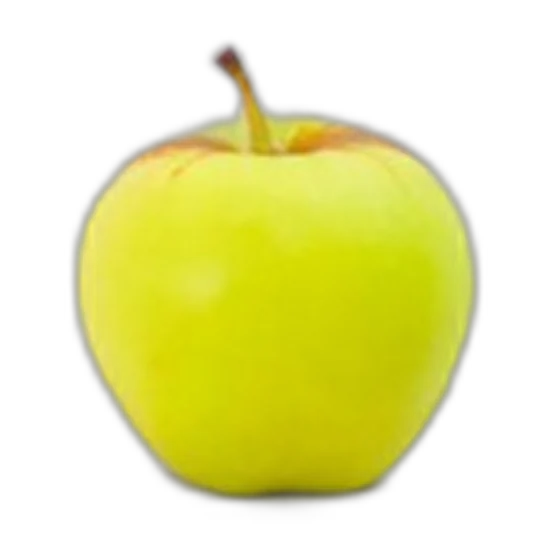
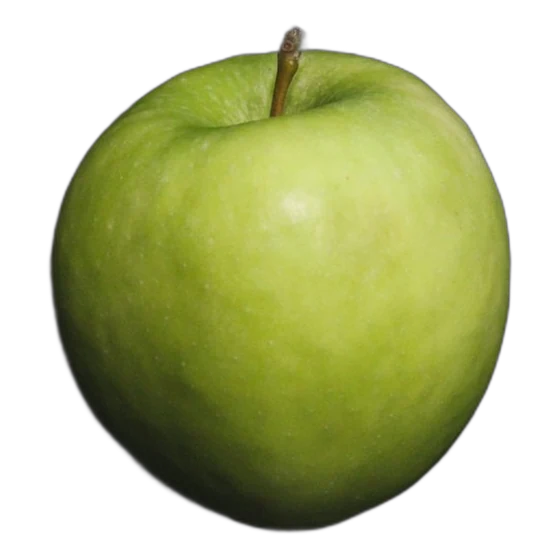
Všech 17 příchutí do výběru a lepší fotka zeleného jablka
Bubliny se rozsadí po celém kruhu podle toho, kolik jich je, a samy
si spočítají velikost, aby se nedotýkaly (17 příchutí = 59 px na
desktopu, 42 px na mobilu). Příchutě, co zatím nemají fotku, mají
kreslený kopeček ve své barvě — v bublině i ve velkém náhledu.

Zelené jablko má novou studiovou fotku místo té na talíři.

diff --git a/assets/anim.js b/assets/anim.js
@@ -212,10 +212,15 @@
     const fotka = document.getElementById("flavorImg");
     const kruh = sekce.querySelector(".bubliny");
 
+    // bubliny rozsadíme po celém kruhu — kolik jich je, tolik dílků
     const rozmisti = () => {
-      const R = kruh.clientWidth / 2 - 6;
+      const n = bubliny.length;
+      const R = kruh.clientWidth / 2 - 8;
+      // aby se nedotýkaly: průměr podle rozestupu na kružnici
+      const velikost = Math.max(34, Math.min(84, 2 * R * Math.sin(Math.PI / n) - 6));
+      kruh.style.setProperty("--bublina", velikost.toFixed(1) + "px");
       bubliny.forEach((li, i) => {
-        const uhel = (-108 + i * 43) * Math.PI / 180;
+        const uhel = (-90 + i * (360 / n)) * Math.PI / 180;
         li.style.transform = `translate(${(Math.cos(uhel) * R).toFixed(1)}px, ${(Math.sin(uhel) * R).toFixed(1)}px)`;
       });
     };
@@ -233,6 +238,29 @@
 
     const zaklad = sekce.querySelector(".blok__in");
     let aktivni = null, umysl, vrstvaZiva = null;
+
+    // velký obrázek vlevo: fotka, nebo kreslený kopeček v barvě příchuti
+    const velkyKopecek = barva =>
+      '<svg viewBox="0 0 120 120" aria-hidden="true">' +
+      `<path d="M22 74c0-23 17-42 38-42s38 19 38 42c0 5-3 8-8 8H30c-5 0-8-3-8-8z" fill="${barva}"/>` +
+      '<path d="M38 60c4-10 12-17 22-18" stroke="rgba(255,255,255,.55)" stroke-width="7" stroke-linecap="round" fill="none"/>' +
+      '<ellipse cx="60" cy="88" rx="40" ry="7" fill="rgba(0,0,0,.14)"/></svg>';
+
+    const nastavObrazek = (koren, b) => {
+      const img = koren.querySelector(".prichute__foto img");
+      const kopecek = koren.querySelector(".prichute__kopecek");
+      if (!img || !kopecek) return;
+      if (b.dataset.img) {
+        img.src = b.dataset.img;
+        img.alt = b.dataset.name;
+        img.hidden = false;
+        kopecek.hidden = true;
+      } else {
+        img.hidden = true;
+        kopecek.innerHTML = velkyKopecek(b.dataset.c);
+        kopecek.hidden = false;
+      }
+    };
     const vyber = (li, hned) => {
       if (li === aktivni) return;
       const b = li.querySelector("button");
@@ -247,7 +275,7 @@
         jmeno.textContent = b.dataset.name;
         druh.textContent = b.dataset.kind;
         popis.textContent = b.dataset.note;
-        if (fotka && b.dataset.img) { fotka.src = b.dataset.img; fotka.alt = b.dataset.name; }
+        nastavObrazek(sekce, b);
       };
 
       if (mene || hned) { nastavZaklad(); return; }
@@ -273,8 +301,7 @@
       klon.querySelector(".prichute__nazev").textContent = b.dataset.name;
       klon.querySelector(".prichute__druh").textContent = b.dataset.kind;
       klon.querySelector(".prichute__popis").textContent = b.dataset.note;
-      const klonFoto = klon.querySelector(".prichute__foto img");
-      if (klonFoto && b.dataset.img) { klonFoto.src = b.dataset.img; klonFoto.alt = b.dataset.name; }
+      nastavObrazek(klon, b);
       const poradi = bubliny.indexOf(li);
       [...klon.querySelectorAll(".bubliny li")].forEach((el, i) => el.classList.toggle("is-on", i === poradi));
       vrstva.appendChild(klon);

diff --git a/assets/style.css b/assets/style.css
@@ -182,16 +182,18 @@ section[id] { scroll-margin-top: 80px; }
 .prichute__popis { font-size: 1.04rem; opacity: .92; min-height: 3.2em; }
 .bubliny { list-style: none; margin: 0; padding: 0; position: relative; width: min(370px, 38vw); aspect-ratio: 1; }
 .bubliny::before { content: ""; position: absolute; inset: 6%; border-radius: 50%; border: 2px dashed rgba(255, 255, 255, .5); }
-.bubliny li { position: absolute; left: 50%; top: 50%; margin: -41px 0 0 -41px; }
+.bubliny li { position: absolute; left: 50%; top: 50%; width: var(--bublina, 82px); height: var(--bublina, 82px); margin: calc(var(--bublina, 82px) / -2) 0 0 calc(var(--bublina, 82px) / -2); }
 .bubliny button {
   --in: 1;
-  width: 82px; height: 82px; border-radius: 50%; border: 4px solid currentColor; cursor: pointer;
+  width: 100%; height: 100%; border-radius: 50%; border: 3px solid currentColor; cursor: pointer;
   background: var(--c); padding: 0; display: grid; place-items: center; overflow: hidden; color: inherit;
   box-shadow: 0 16px 24px -14px rgba(40, 20, 30, .6);
   transform: scale(var(--in));
   transition: transform .35s cubic-bezier(.34, 1.56, .64, 1), box-shadow .3s;
 }
-.bubliny button img { width: 72%; height: 72%; object-fit: contain; filter: drop-shadow(0 4px 6px rgba(0, 0, 0, .3)); pointer-events: none; }
+.bubliny button img, .bubliny button .kopecek { width: 76%; height: 76%; object-fit: contain; filter: drop-shadow(0 4px 6px rgba(0, 0, 0, .3)); pointer-events: none; }
+.prichute__kopecek { width: 100%; height: 100%; display: grid; place-items: center; }
+.prichute__kopecek svg { width: 86%; height: 86%; filter: drop-shadow(0 18px 20px rgba(40, 20, 30, .35)); }
 .bubliny button:hover, .bubliny button:focus-visible { transform: scale(calc(var(--in) * 1.14)); }
 .bubliny li.is-on button { transform: scale(calc(var(--in) * 1.22)); box-shadow: 0 0 0 7px rgba(255, 255, 255, .3), 0 20px 28px -14px rgba(40, 20, 30, .6); }
 
@@ -385,8 +387,6 @@ h2 .hand { font-size: 1.16em; }
   .zastavka__bod { position: absolute; left: -36px; top: 18px; margin: 0; }
   .zastavka__karta { text-align: left; }
   .bubliny { width: min(330px, 76vw); }
-  .bubliny li { margin: -33px 0 0 -33px; }
-  .bubliny button { width: 66px; height: 66px; border-width: 3px; }
   .prichute__foto { width: min(210px, 50vw); }
   .partner__cta { grid-auto-flow: column; justify-content: start; }
 }
@@ -406,8 +406,6 @@ h2 .hand { font-size: 1.16em; }
   .sticker--rating b { font-size: 1.55rem; }
   .tabule { padding: 22px 20px; border-width: 9px; }
   .bubliny { width: min(280px, 82vw); }
-  .bubliny li { margin: -28px 0 0 -28px; }
-  .bubliny button { width: 56px; height: 56px; }
   .partner__cta { grid-auto-flow: row; }
 }
 

diff --git a/assets/data.js b/assets/data.js
@@ -61,7 +61,16 @@ window.ZD = (function () {
   /* ---------- pomůcky ---------- */
   const jeTodo = v => typeof v === "string" && v.trim().toUpperCase() === "TODO";
   const prichut = id => data.prichute.prichute.find(p => p.id === id) || null;
-  const sFotkou = () => data.prichute.prichute.filter(p => p.foto);
+  const vNabidce = () => data.prichute.prichute.filter(p => p.dostupne !== false);
+
+  // kopeček pro příchutě, které zatím nemají fotku
+  const kopecekSvg = (barva, velky) => {
+    const r = velky ? 'viewBox="0 0 120 120" class="kopecek kopecek--velky"' : 'viewBox="0 0 120 120" class="kopecek"';
+    return `<svg ${r} aria-hidden="true">` +
+      `<path d="M22 74c0-23 17-42 38-42s38 19 38 42c0 5-3 8-8 8H30c-5 0-8-3-8-8z" fill="${barva}"/>` +
+      `<path d="M38 60c4-10 12-17 22-18" stroke="rgba(255,255,255,.55)" stroke-width="7" stroke-linecap="round" fill="none"/>` +
+      `<ellipse cx="60" cy="86" rx="40" ry="7" fill="rgba(0,0,0,.12)"/></svg>`;
+  };
 
   /* ---------- hero: co se právě točí ---------- */
   function vykresliDnes() {
@@ -104,10 +113,11 @@ window.ZD = (function () {
   function vykresliBubliny() {
     const ul = document.getElementById("bubbles");
     if (!ul) return;
-    const vyber = sFotkou();
+    const vyber = vNabidce();
     if (!vyber.length) return;
 
     ul.innerHTML = "";
+    ul.dataset.pocet = vyber.length;
     vyber.forEach(p => {
       const li = document.createElement("li");
       const b = document.createElement("button");
@@ -116,9 +126,11 @@ window.ZD = (function () {
       b.dataset.kind = p.druh;
       b.dataset.name = p.nazev;
       b.dataset.note = p.popis;
-      b.dataset.img = p.foto;
+      if (p.foto) b.dataset.img = p.foto;
       b.setAttribute("aria-label", p.nazev);
-      b.innerHTML = `<img src="${p.foto}" alt="" width="560" height="560" loading="lazy">`;
+      b.innerHTML = p.foto
+        ? `<img src="${p.foto}" alt="" width="560" height="560" loading="lazy">`
+        : kopecekSvg(p.barva, false);
       li.appendChild(b);
       ul.appendChild(li);
     });

diff --git a/index.html b/index.html
@@ -134,7 +134,7 @@
       </header>
 
       <div class="prichute__telo">
-        <figure class="prichute__foto"><img id="flavorImg" src="assets/img/prichut-malina.webp" alt="malina" width="560" height="560"></figure>
+        <figure class="prichute__foto"><img id="flavorImg" src="assets/img/prichut-malina.webp" alt="malina" width="560" height="560"><div class="prichute__kopecek" id="flavorScoop" hidden></div></figure>
 
         <div class="prichute__info">
           <p class="prichute__druh" id="flavorKind">ovocná</p>
